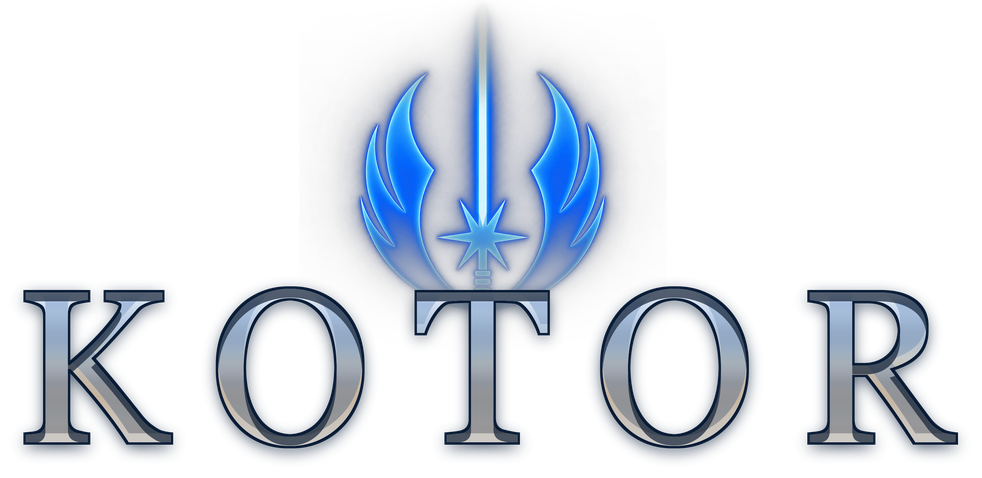
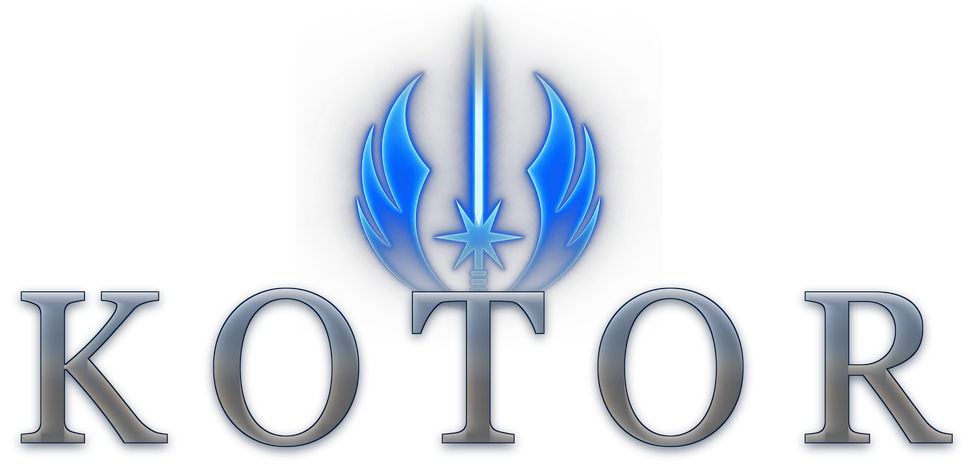
Replace the bevel bar with a real depth-shaded bevel
The previous version painted the rim colour across a fixed-height band at the top
of each stroke, which read as a grey bar sitting on the letters rather than as
lit metal. Measuring luminance against depth below each stroke's own top edge
showed the two were inverted:

    depth   reference   before
      0        102        58      <- outline far too thick
      1        163        68
      3        134        86
     10+       118       167      <- brightest deep inside, not at the edge

The reference is brightest at its lit edge and decays to a plateau. Shading is
now a function of that depth: colour = plateau + (edge - plateau) * exp(-depth /
tau), with tau = 0.048 x cap fitted through the reference's depth-3 value, and
the outline cut to a hairline (0.008 cap, one pixel at cap 58).

Lighting the top edge alone left the mean at 116.6 against the reference's 132.1
while the depth plateau matched at 118 -- the shortfall has to come from lit
vertical edges, so the left edge is lit too at 0.75 of the top. Sweeping that
against edge luminance settled on SIDE_LIGHT 0.75 and EDGE_LUM 195, giving mean
130.6 vs 132.1 and a lit edge of 160.3 vs 163.1. EDGE_LUM sits above the raw 163
measured at depth 1 because that sample is diluted by antialiasing.

Total depth-profile error 78 against 364 for the banded version. FACE and RIM now
only carry hue; EDGE_LUM and PLATEAU_LUM fix their levels, so the ramps cannot
drift apart from the measurements.

diff --git a/tools/build_brand_image.py b/tools/build_brand_image.py
@@ -52,8 +52,17 @@ CAP = 150                     # cap height of the rendered wordmark, in output p
 TRACKING_RATIO = 0.297        # measured: 17.2px tracking at 58px cap
 CREST_WIDTH_RATIO = 2.45      # measured: 142px wide at 58px cap
 CREST_FADE_RATIO = 0.42       # the crest dies out this far (in caps) above the cap line
-RIM_LIFT_RATIO = 0.06         # bevel width / cap height; solved by sweeping against the
-                              # reference's brightness distribution (see FACE)
+BEVEL_TAU_RATIO = 0.048       # bevel decay length / cap height, fitted to the
+                              # reference's luminance-vs-depth profile
+OUTLINE_RATIO = 0.008         # outline half-width / cap height (1px at cap 58)
+# Measured off the reference's luminance-vs-depth profile: the lit edge peaks at
+# 163 (depth 1) and the interior settles at 118 (depth 10+). The FACE and RIM
+# ramps carry the hue; these fix their level, so the two cannot drift apart.
+EDGE_LUM = 195.0             # fitted, not the raw 163 measured at depth 1: that sample is
+                             # diluted by antialiasing, so the underlying edge is brighter
+PLATEAU_LUM = 118.0
+SIDE_LIGHT = 0.75            # left-edge lighting relative to the top edge; swept against the
+                             # reference (mean luminance 130.6 vs 132.1, lit edge 160.3 vs 163.1)
 SUPERSAMPLE = 3
 
 # Stroke interior, sampled per height band as the mean of pixels above that band's
@@ -204,38 +213,66 @@ def build(crest_path: Path, out: Path) -> None:
     # --- the wordmark ------------------------------------------------------
     glyph_h = baseline - cap_top
 
-    drop = letters.filter(ImageFilter.GaussianBlur(cap * 0.05))
-    shadow = Image.new("RGBA", canvas.size, OUTLINE + (0,))
-    shadow.putalpha(drop.point(lambda v: int(v * 0.8)))
-    canvas.alpha_composite(shadow, (0, int(cap * 0.03)))
+    # --- shading: a bevel measured off the reference ----------------------
+    # For every glyph pixel the reference's luminance depends on how far it sits
+    # below its own stroke's top edge, not on absolute height:
+    #     depth 0  102 (outline/antialias)   depth 1  163   depth 3  134
+    #     depth 6  122                       depth 10+ ~118
+    # So: a bright lit edge decaying to a plateau. Fitting 165 -> 118 through
+    # depth 3 = 134 gives tau = 2.8px at cap 58, i.e. 0.048 x cap.
+    import numpy as np
 
-    grow = letters.filter(ImageFilter.MaxFilter(2 * max(1, int(cap * 0.016)) + 1))
+    alpha = np.asarray(letters).astype(np.float32) / 255.0
+    solid = alpha > 0.5
+    depth = np.zeros(alpha.shape, dtype=np.float32)
+    run = np.zeros(alpha.shape[1], dtype=np.float32)
+    for y in range(alpha.shape[0]):
+        row = solid[y]
+        run = np.where(row, run + 1.0, 0.0)
+        depth[y] = np.maximum(run - 1.0, 0.0)
+
+    # A bevel is lit from above AND from the left -- the reference's overall mean
+    # luminance (132.1) sits well above its depth plateau (118), which only works
+    # if the vertical edges are lit too. Weighted below the top edge.
+    side = np.zeros(alpha.shape, dtype=np.float32)
+    run = np.zeros(alpha.shape[0], dtype=np.float32)
+    for x in range(alpha.shape[1]):
+        col = solid[:, x]
+        run = np.where(col, run + 1.0, 0.0)
+        side[:, x] = np.maximum(run - 1.0, 0.0)
+
+    tau = max(1.0, BEVEL_TAU_RATIO * cap)
+    lit = np.maximum(np.exp(-depth / tau), SIDE_LIGHT * np.exp(-side / tau))[..., None]
+
+    t = np.clip((np.arange(alpha.shape[0]) - cap_top) / max(1, glyph_h), 0.0, 1.0)
+    def levelled(stops, target_lum):
+        arr = np.asarray(ramp(alpha.shape[0], stops), dtype=np.float32).reshape(-1, 3)
+        mean = arr.max(axis=1).mean()
+        return (arr * (target_lum / max(1e-6, mean))).reshape(-1, 1, 3)
+
+    plate_col = levelled(FACE, PLATEAU_LUM)
+    edge_col = levelled(RIM, EDGE_LUM)
+    # `ramp` spans the glyph, so index it by the same normalised height.
+    idx = np.clip((t * (alpha.shape[0] - 1)).astype(int), 0, alpha.shape[0] - 1)
+    plate_col = plate_col[idx]
+    edge_col = edge_col[idx]
+
+    shaded = plate_col * (1.0 - lit) + edge_col * lit
+    rgb = np.clip(shaded, 0, 255).astype(np.uint8)
+    face_img = Image.fromarray(rgb, "RGB").convert("RGBA")
+    face_img.putalpha(letters)
+
+    # A hairline outline only -- the reference's is one pixel at cap 58.
+    grow = letters.filter(ImageFilter.MaxFilter(2 * max(1, int(cap * OUTLINE_RATIO)) + 1))
     edge = Image.new("RGBA", canvas.size, OUTLINE + (255,))
     edge.putalpha(grow)
+
+    drop = letters.filter(ImageFilter.GaussianBlur(cap * 0.035))
+    shadow = Image.new("RGBA", canvas.size, OUTLINE + (0,))
+    shadow.putalpha(drop.point(lambda v: int(v * 0.7)))
+    canvas.alpha_composite(shadow, (0, int(cap * 0.025)))
     canvas.alpha_composite(edge)
-
-    face = ramp(glyph_h, FACE).resize((width, glyph_h), Image.NEAREST).convert("RGBA")
-    plate = Image.new("RGBA", canvas.size, (0, 0, 0, 0))
-    plate.paste(face, (0, cap_top))
-    plate.putalpha(letters)
-    canvas.alpha_composite(plate)
-
-    lift = max(1, int(cap * RIM_LIFT_RATIO))
-    up = Image.new("L", canvas.size, 0); up.paste(letters, (0, -lift))
-    top_edge = Image.composite(letters, Image.new("L", canvas.size, 0),
-                               Image.eval(up, lambda v: 255 - v))
-    rim = ramp(glyph_h, RIM).resize((width, glyph_h), Image.NEAREST).convert("RGBA")
-    rim_plate = Image.new("RGBA", canvas.size, (0, 0, 0, 0))
-    rim_plate.paste(rim, (0, cap_top))
-    rim_plate.putalpha(top_edge)
-    canvas.alpha_composite(rim_plate)
-
-    down = Image.new("L", canvas.size, 0); down.paste(letters, (0, lift))
-    bottom_edge = Image.composite(letters, Image.new("L", canvas.size, 0),
-                                  Image.eval(down, lambda v: 255 - v))
-    dark = Image.new("RGBA", canvas.size, (18, 32, 52, 255))
-    dark.putalpha(bottom_edge.point(lambda v: int(v * 0.7)))
-    canvas.alpha_composite(dark)
+    canvas.alpha_composite(face_img)
 
     canvas = canvas.resize((width // SUPERSAMPLE, height // SUPERSAMPLE), Image.LANCZOS)
     box = canvas.getbbox()
